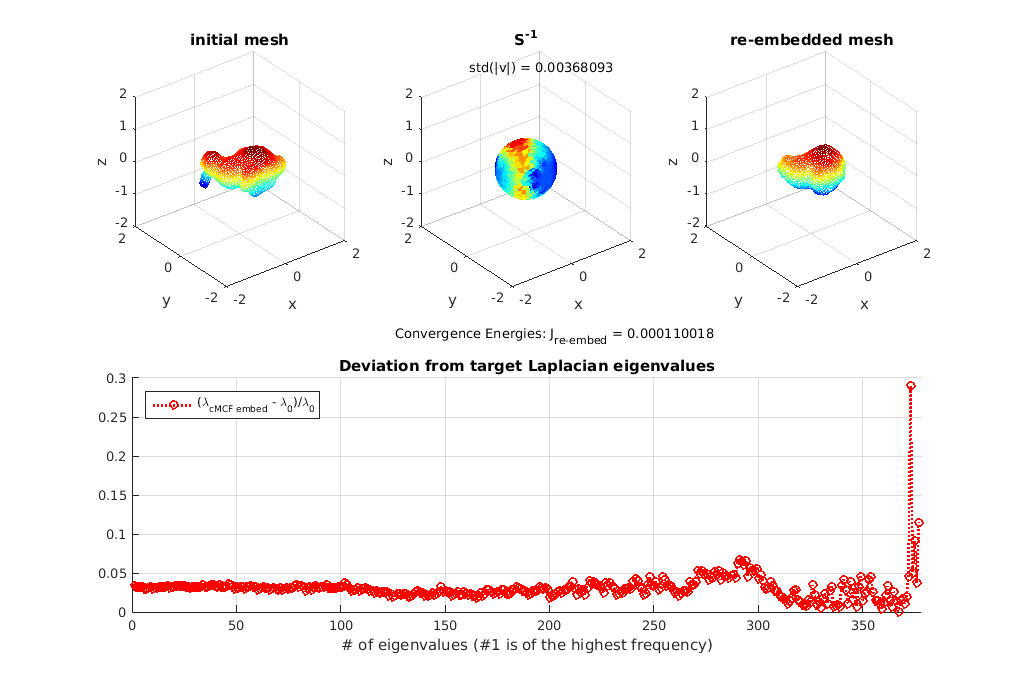
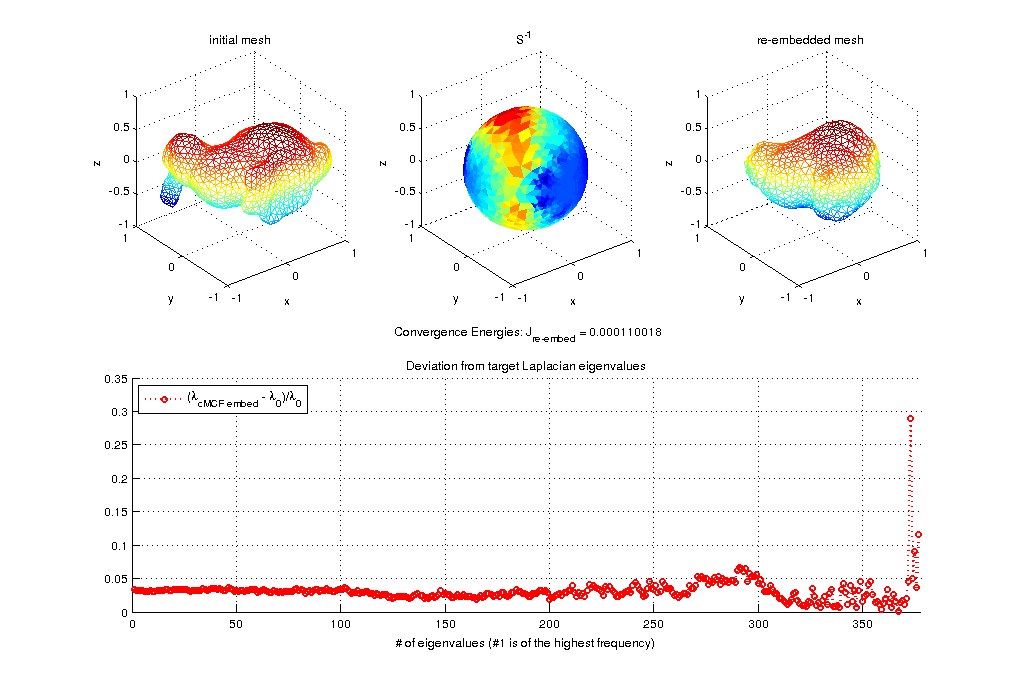
generic new commit

diff --git a/analysis.m b/analysis.m
@@ -2,8 +2,8 @@ clear;
 vnorm = @(v) sqrt(v(:,3).^2+v(:,1).^2+v(:,2).^2);
 %% control parameters
 imax = 1e3; % gradient descent maximum iterations
-aC = .4; bC = .9; tC = 10; etolC = 1e-3; % Conformal descent control
-aS = .7; bS = .8; tS = 100; etolS = 5e-4; % invSpec descent control
+aC = .4; bC = .6; tC = 15; etolC = 1e-4; % Conformal descent control
+aS = .6; bS = .7; tS = 100; etolS = 1e-4; % invSpec descent control
 % numeig = .6; % number of eigenvalues used, <=1 => percent, <=0 => all
 % pert = .512; % scaling coefficient used to control target perturbation
 rng(1432543); % rand seed
@@ -167,17 +167,18 @@ rng(1432543); % rand seed
   [M_c,L_c] = lapbel(v_c,f);
   D_c = eigvf(L_c,M_c,numeig);
   %% how well does it do?
+  viewlim = [-1 1];
   close all;
   figure(); hold all; set(gcf,'outerposition',[0, 0, 1024, 768]);
   subplot(2,3,1); hold all; view(3); grid on; axis equal
   trimesh(f,v_T(:,1),v_T(:,2),v_T(:,3))
-  set(gca,'xlim',[-2 2],'ylim',[-2 2],'zlim',[-2 2]);
+  set(gca,'xlim',viewlim,'ylim',viewlim,'zlim',viewlim);
   xlabel('x'); ylabel('y'); zlabel('z');
   title('initial mesh');
 
   subplot(2,3,2); hold all; view(3); grid on; axis equal
   trisurf(f,v0(:,1),v0(:,2),v0(:,3),s_T,'edgecolor','none')
-  set(gca,'xlim',[-2 2],'ylim',[-2 2],'zlim',[-2 2]);
+  set(gca,'xlim',viewlim,'ylim',viewlim,'zlim',viewlim);
   xlabel('x'); ylabel('y'); zlabel('z');
   % colorbar;
   title('S^{-1}');
@@ -185,7 +186,7 @@ rng(1432543); % rand seed
 
   subplot(2,3,3); hold all; view(3); grid on; axis equal
   trimesh(f,v_c(:,1),v_c(:,2),v_c(:,3))
-  set(gca,'xlim',[-2 2],'ylim',[-2 2],'zlim',[-2 2]);
+  set(gca,'xlim',viewlim,'ylim',viewlim,'zlim',viewlim);
   xlabel('x'); ylabel('y'); zlabel('z');
   title('re-embedded mesh');
 
@@ -209,9 +210,10 @@ rng(1432543); % rand seed
   ym = get(ax,'ylim');
   text(floor(max(xm)/3),max(ym(2) + .18*diff(ym)),...
     num2str(Jc_hist(end),'Convergence Energies: J_{re-embed} = %g'));
-
   colormap('jet');
-  save('cMCF test.mat','v0','f','v_T','f_T','v_c','D_c','D_T','Jc_hist');
+
+  save('cMCF test.mat','v0','f','v_T','f_T','v_c','D_c',...
+    's_T','D_T','Jc_hist');
   hgexport(gcf,'cMCF re-embed test.png',...
     hgexport('factorystyle'), 'Format', 'png'); 
 
